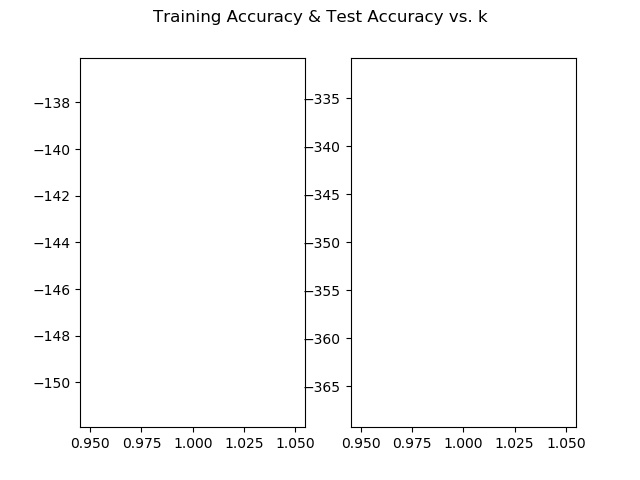
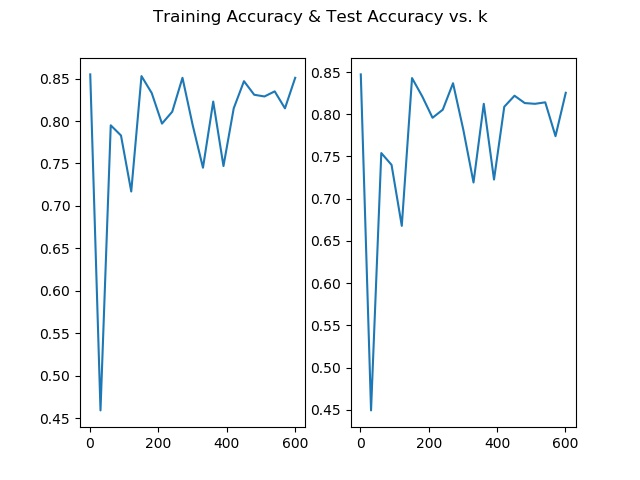
Ran some dimensionality reduction experiments

diff --git a/spam_classifier.py b/spam_classifier.py
@@ -13,9 +13,9 @@ baseline = False
 linear_rg = False
 naive_bay = False
 nn = False 
-svm = False
-QDA = False
-LDA = False
+svm = True
+QDA = True
+LDA = True
 logistic_reg = True
 decision_tr = False 
 kNN = False
@@ -44,8 +44,8 @@ def dimension_search(classifier, dr_method, X_training, y_training, X_test, y_te
         X_training_hat = X_training @ U
         X_test_hat = X_test @ U 
         classifier.train(X_training_hat, y_training)
-        pred_train = classifier.predict(X_training_hat)
-        pred_test = classifier.predict(X_test_hat)
+        pred_train = classifier.predict(X_training_hat).reshape(-1, 1)
+        pred_test = classifier.predict(X_test_hat).reshape(-1, 1)
         ks.append(k)
         training_accuracies.append(1 - np.sum(np.absolute(y_training - pred_train))/X_training.shape[0])
         test_accuracies.append(1 - np.sum(np.absolute(y_test - pred_test))/X_test.shape[0])
@@ -75,13 +75,13 @@ def main():
 
     # Change these variables to select which dimensionality reduction method to use, 
     # and the number of dimension k to reduce to.
-    PCA_flag = False
+    PCA_flag = True
     CCA_flag = False
     Random_flag = False
-    k = 2 
+    k = 31
 
     if PCA_flag:
-        V_k = PCA_Projector(X_training, k)
+        V_k = PCA_Projector(X_training, y_training, k)
         X_training = X_training @ V_k
         X_test = X_test @ V_k
     elif CCA_flag:
@@ -89,7 +89,7 @@ def main():
         X_training = X_training @ U
         X_test = X_test @ U
     elif Random_flag:
-        U = Random_Projector(X_training, k)
+        U = Random_Projector(X_training, y_training, k)
         X_training = X_training @ U 
         X_test = X_test @ U 
     if baseline:
@@ -177,7 +177,7 @@ def run_all_dimensionality_test():
     with np.load("email_vector_test.npz") as testData:
         X_test = testData["arr_0"]
         y_test = testData["arr_1"]
-    names = ["LS_SVM", "SVM", "QDA", "LDA", "logistic_reg"]
+    names = ["QDA"]
     for name in names:
         if name == "LS_SVM":
             classifier = LS_SVM()
@@ -193,6 +193,7 @@ def run_all_dimensionality_test():
         for dr_method in ["PCA", "CCA", "Random"]:
             print(dr_method)
             print("Best k is:")
-            print(dimension_search(classifier, dr_method, X_training, y_training, X_test, y_test, min_k = 1, max_k = 600, interval = 30, save = True, name = name))
+            print(dimension_search(classifier, dr_method, X_training, y_training, X_test, y_test, min_k = 1, max_k = 601, interval = 30, save = True, name = name))
 if __name__ == '__main__':
     run_all_dimensionality_test()
+    # main()
